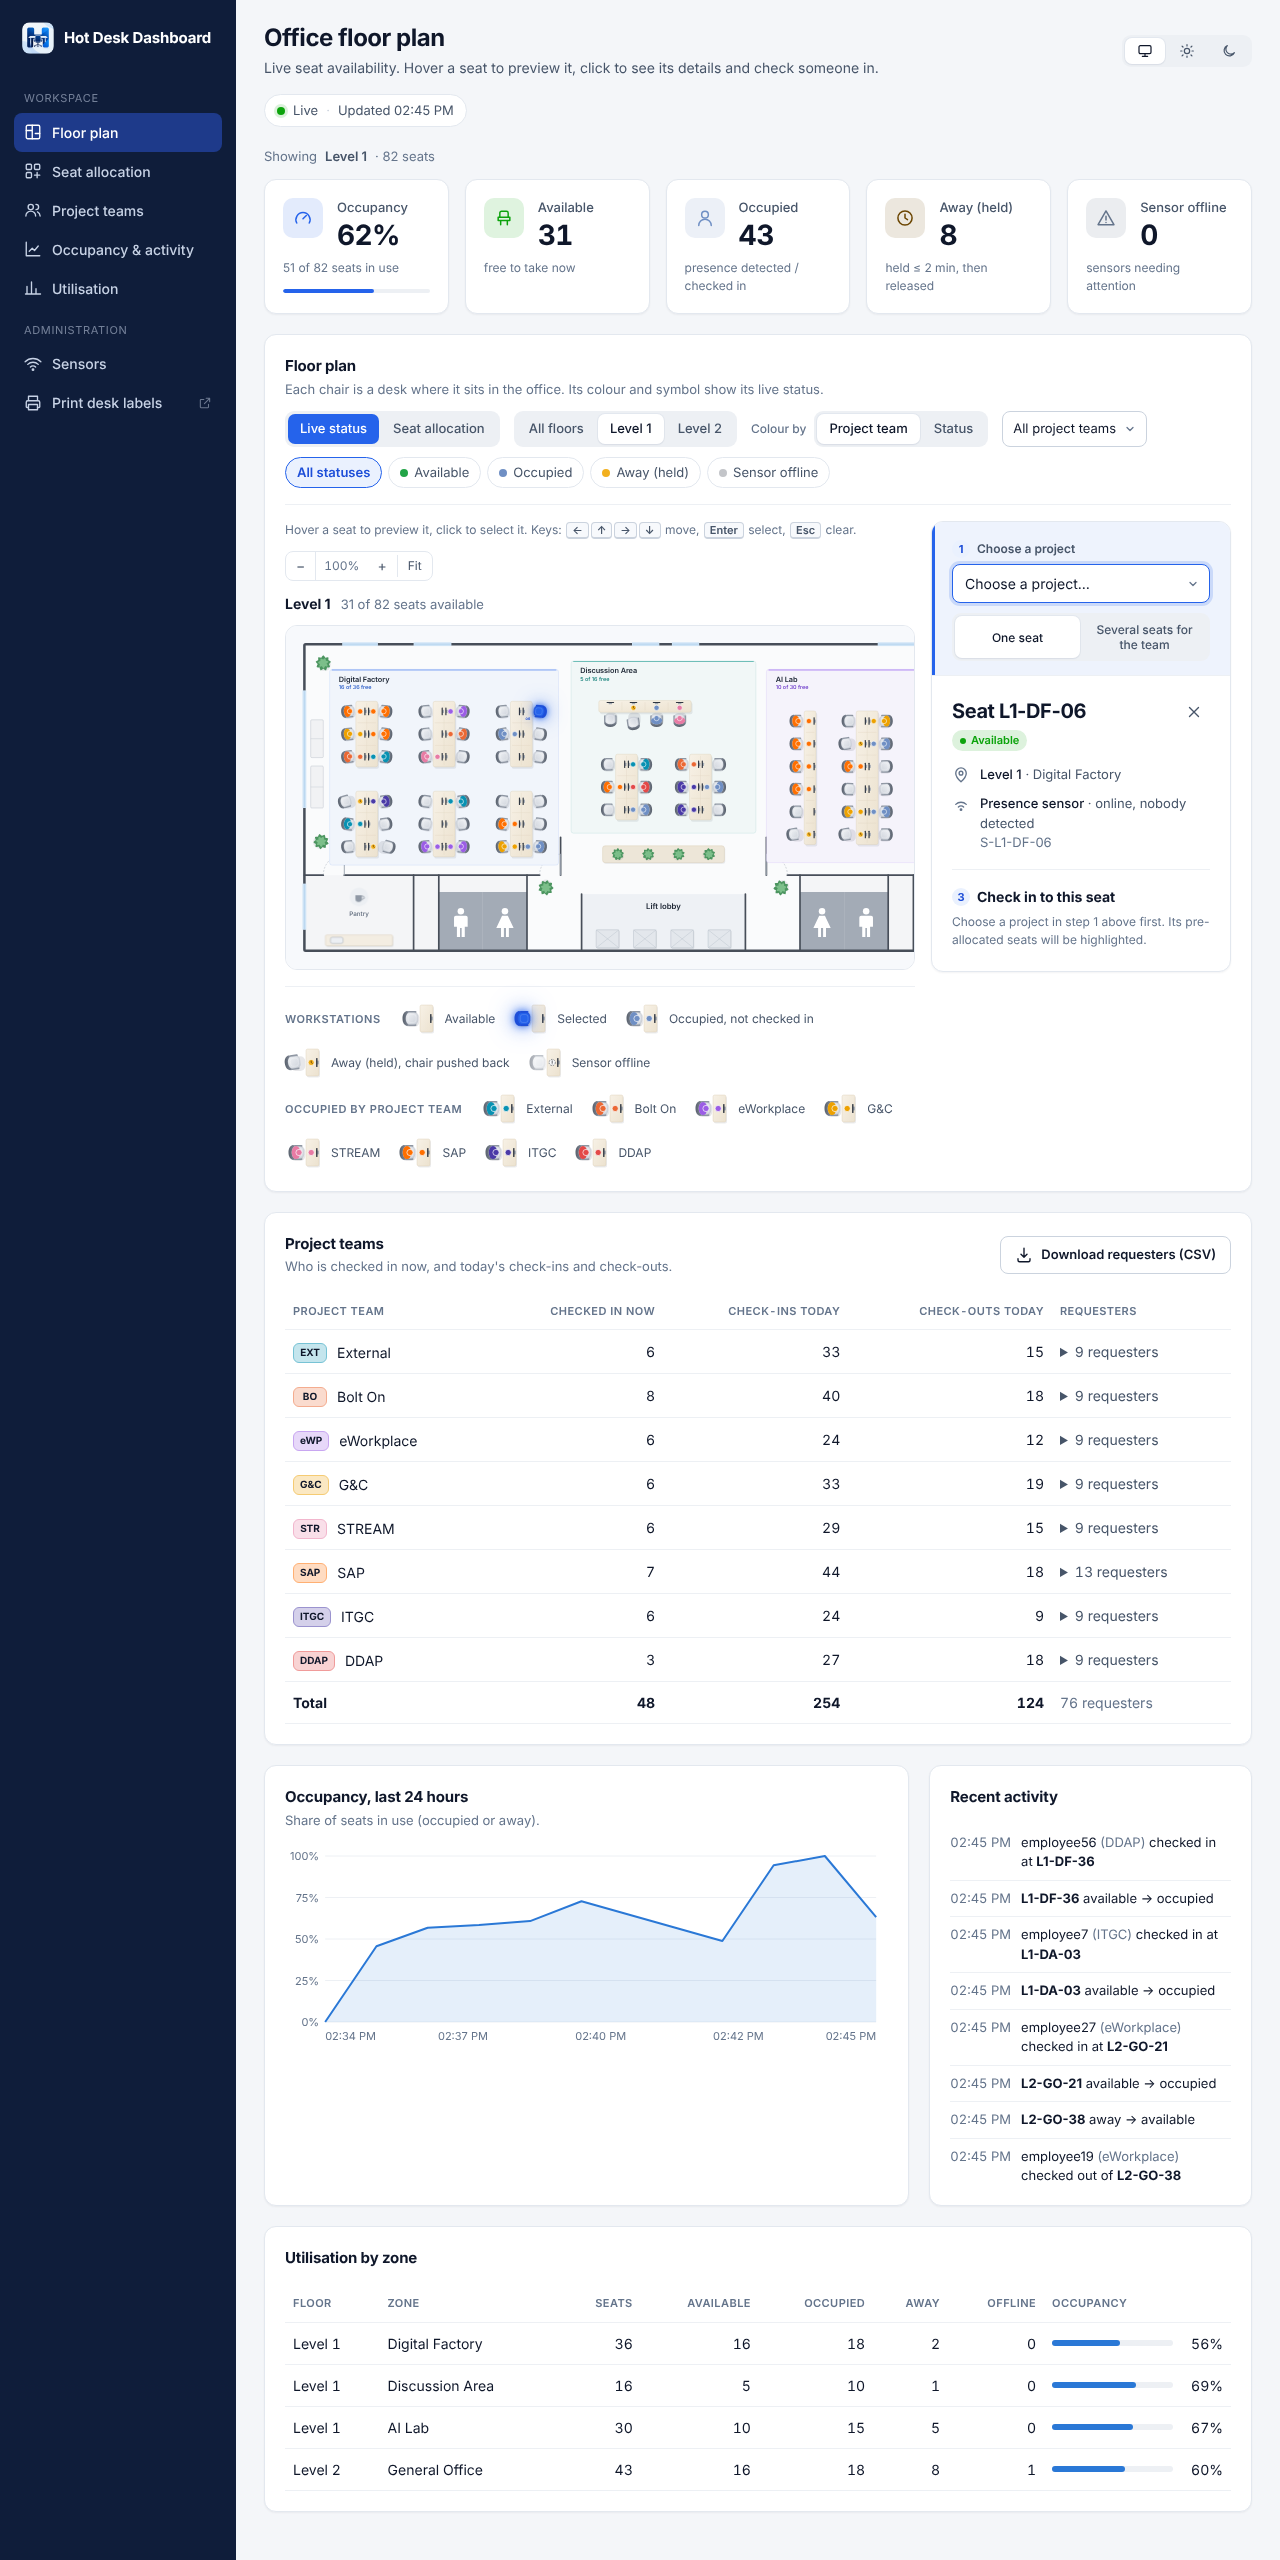
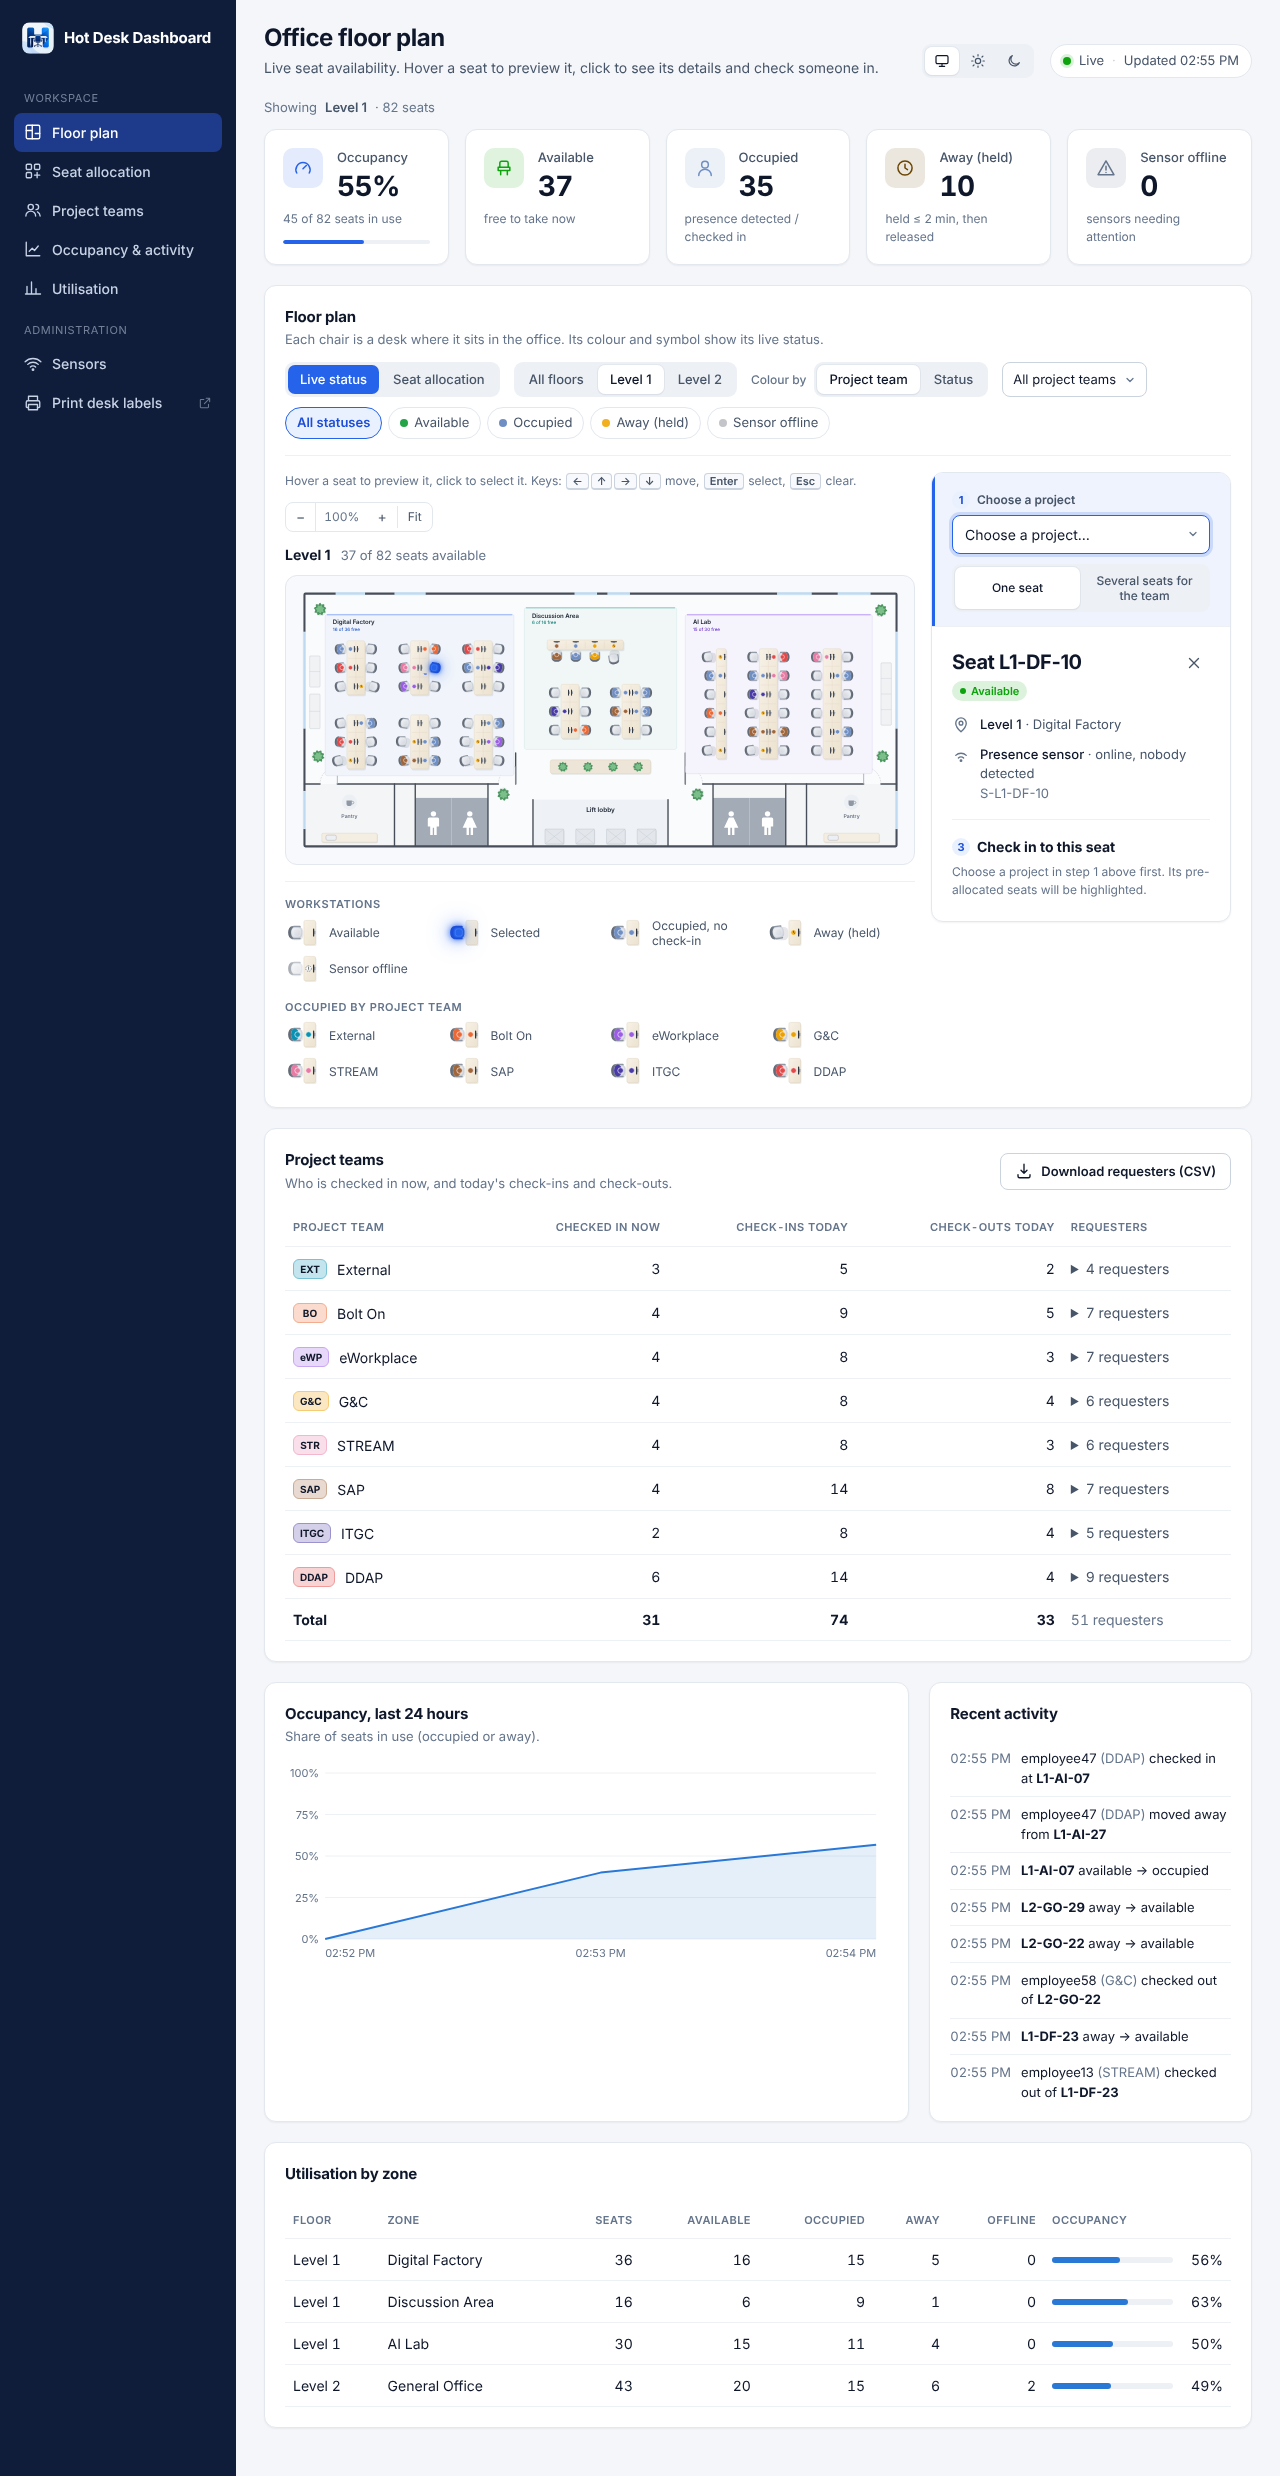
Fit the plan without a scrollbar, tidy the legend, align the theme toggle
The plan's fit width now accounts for the plan box's padding and border,
and with a mouse the plan always fits the card (touch screens still keep
larger seats and scroll). Legend groups put their heading on its own line
and their items in even columns. The theme toggle and the live pill share
a height and baseline.

Claude-Session: https://claude.ai/code/session_01LGhQKA2iw4MbRhcQm9t68K

diff --git a/public/index.html b/public/index.html
@@ -150,7 +150,9 @@
   }
   .theme-toggle button { display: grid; place-items: center; padding: 5px 8px; }
   .theme-toggle svg.i { width: 16px; height: 16px; }
-  .topbar .theme-toggle { align-self: center; }
+  .topbar .theme-toggle { height: 34px; box-sizing: border-box; }
+  .topbar .theme-toggle button { padding: 0 9px; }
+  .topbar .live { height: 34px; box-sizing: border-box; }
   .live::before { content: ""; width: 8px; height: 8px; border-radius: 50%; background: var(--offline); }
   .live.on::before { background: var(--available); box-shadow: 0 0 0 3px rgb(12 163 12 / 0.15); }
   .live .sep { color: var(--border-strong); }
@@ -430,11 +432,12 @@
   .alloc-msg.err { color: #c62828; }
 
   /* Legend */
-  .legend { display: flex; flex-wrap: wrap; gap: 10px 28px; margin-top: 16px; padding-top: 14px; border-top: 1px solid var(--grid); }
-  .lgroup { display: flex; flex-wrap: wrap; gap: 8px 16px; align-items: center; }
-  .lgroup > b { font-size: 11px; text-transform: uppercase; letter-spacing: 0.05em; color: var(--text-muted); font-weight: 600; margin-right: 2px; }
-  .litem { display: inline-flex; align-items: center; gap: 6px; font-size: 12px; color: var(--text-secondary); }
-  .ws-sample { width: 40px; height: 36px; flex: none; overflow: visible; }
+  .legend { display: grid; gap: 14px; margin-top: 16px; padding-top: 14px; border-top: 1px solid var(--grid); }
+  /* Each group: its heading on one line, then its items in even columns. */
+  .lgroup { display: grid; grid-template-columns: repeat(auto-fill, minmax(124px, 1fr)); gap: 4px 16px; align-items: center; }
+  .lgroup > b { grid-column: 1 / -1; font-size: 11px; text-transform: uppercase; letter-spacing: 0.05em; color: var(--text-muted); font-weight: 600; }
+  .litem { display: flex; align-items: center; gap: 8px; min-width: 0; font-size: 12px; line-height: 1.25; color: var(--text-secondary); }
+  .ws-sample { width: 36px; height: 32px; flex: none; overflow: visible; }
   .ws-sample .seat { cursor: default; pointer-events: none; transform: none !important; filter: none !important; }
   .chip {
     display: inline-flex; align-items: center; justify-content: center; min-width: 34px; height: 20px; padding: 0 6px; border-radius: 6px;

diff --git a/public/dashboard.js b/public/dashboard.js
@@ -243,8 +243,9 @@ function projectColor(t) {
 // ---------- Floor plan ----------
 // Each floor is one SVG (public/floorplan.js). Seats are its only interactive parts; the
 // office around them is context. Scale: fit the card width, but never below TAP_SCALE
-// (MOUSE_SCALE with a mouse) px per plan unit so chairs stay easy to hit; past that the plan scrolls.
-const MIN_SCALE = 3.5, MOUSE_SCALE = 4.2, TAP_SCALE = 6, FIT_CAP = 8, MAX_SCALE = 18;
+// px per plan unit on touch screens so chairs stay easy to tap; past that the plan scrolls.
+// With a mouse it always fits (MOUSE_SCALE is only a floor for tiny windows); zoom in for detail.
+const MIN_SCALE = 2.5, MOUSE_SCALE = 2.5, TAP_SCALE = 6, FIT_CAP = 8, MAX_SCALE = 18;
 let layouts = [];
 let zoom = 1;
 
@@ -268,7 +269,10 @@ function renderPlan() {
 }
 
 function baseScale(fl) {
-  const avail = $('plan').clientWidth - 24;
+  // The plan box's own padding and border are not drawing space.
+  const box = $('plan').querySelector('.fp-scroll'), cs = box && getComputedStyle(box);
+  const inset = cs ? parseFloat(cs.paddingLeft) + parseFloat(cs.paddingRight) + parseFloat(cs.borderLeftWidth) + parseFloat(cs.borderRightWidth) : 30;
+  const avail = $('plan').clientWidth - inset - 1;
   // Touch needs bigger targets than a mouse; below this size the plan scrolls instead.
   const min = matchMedia('(pointer: coarse)').matches ? TAP_SCALE : MOUSE_SCALE;
   return Math.min(FIT_CAP, Math.max(min, avail / (fl.w + 2)));
@@ -1083,8 +1087,8 @@ function renderLegend() {
   const status = `<div class="lgroup"><b>Workstations</b>
     <span class="litem">${ws('st-available')}Available</span>
     <span class="litem">${ws('st-available is-selected')}Selected</span>
-    <span class="litem">${ws('st-occupied')}Occupied${project ? ', not checked in' : ''}</span>
-    <span class="litem">${ws('st-away')}Away (held), chair pushed back</span>
+    <span class="litem">${ws('st-occupied')}Occupied${project ? ', no check-in' : ''}</span>
+    <span class="litem" title="The chair is pushed back while the seat is held">${ws('st-away')}Away (held)</span>
     <span class="litem">${ws('st-offline')}Sensor offline</span></div>`;
   let extra = '';
   if (project) {
